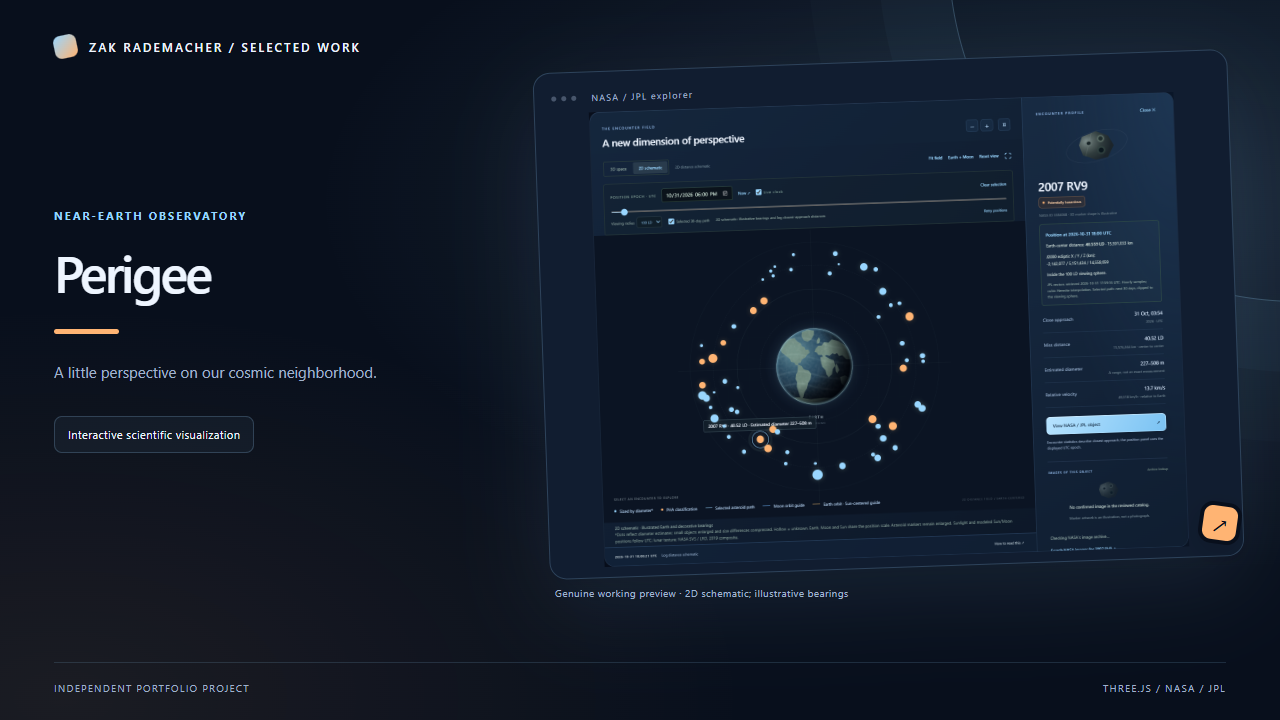
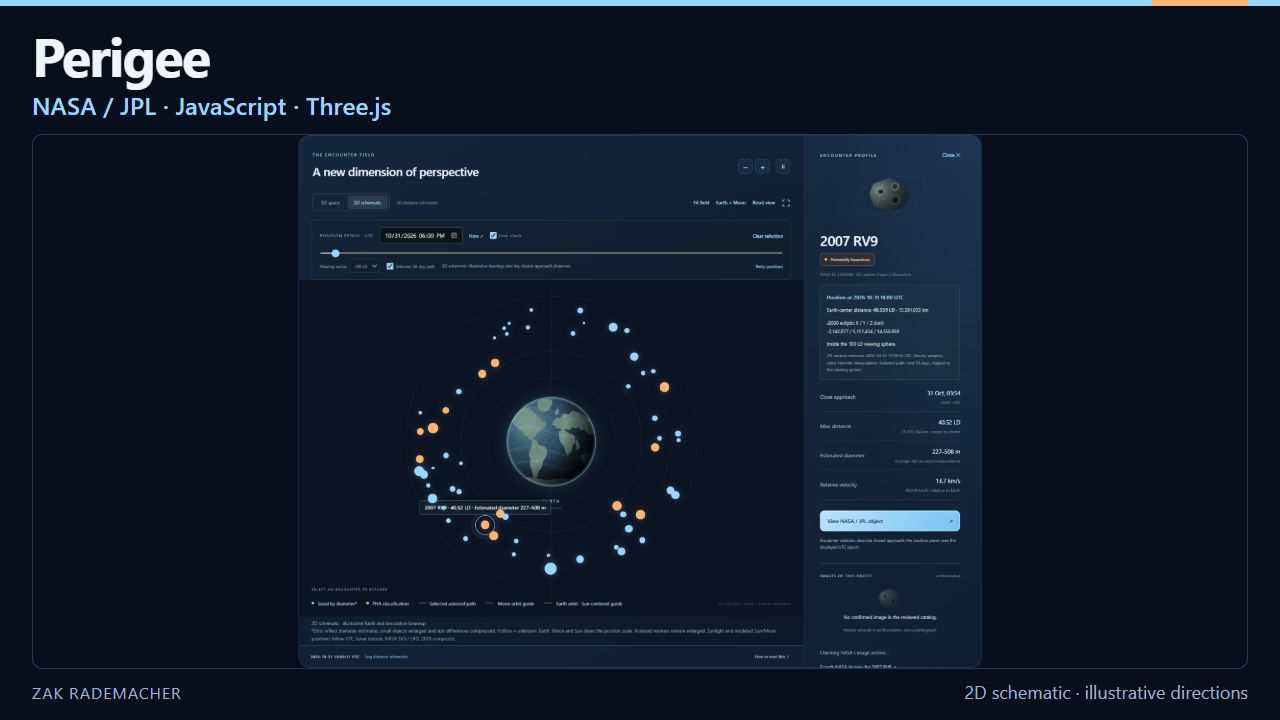
Use a clear, screenshot-led portfolio cover

diff --git a/presentation/cover-template.html b/presentation/cover-template.html
@@ -1,3 +1,3 @@
-<!doctype html><html lang="en"><meta charset="utf-8"><title>@@title@@ — portfolio cover</title><style>
-*{box-sizing:border-box}html,body{margin:0;width:100%;height:100%;overflow:hidden}body{font-family:'Segoe UI',Arial,sans-serif;background:@@canvas@@;color:@@ink@@}.stage{height:100%;padding:52px 54px;position:relative;isolation:isolate;background:radial-gradient(ellipse at 88% 28%,@@primary@@25,transparent 51%),radial-gradient(ellipse at 5% 97%,@@accent@@14,transparent 40%)}.stage:before{content:'';position:absolute;width:700px;height:700px;right:-370px;top:-400px;border:1px solid @@primary@@40;border-radius:50%;box-shadow:0 0 0 70px @@primary@@07,0 0 0 140px @@primary@@04;z-index:-1}.brand{font-size:12px;letter-spacing:2.1px;font-weight:600;display:flex;align-items:center;gap:12px}.brand i{display:block;width:23px;height:23px;background:linear-gradient(140deg,@@primary@@,@@accent@@);border-radius:7px;transform:rotate(-12deg)}main{height:calc(100% - 88px);display:grid;grid-template-columns:39% 61%;align-items:center;gap:20px}.copy{padding-right:25px;animation:copy-in .9s cubic-bezier(.16,.8,.2,1) both}.eyebrow{font-size:11px;color:@@primary@@;font-weight:700;letter-spacing:2px;margin-bottom:28px}h1{font-size:62px;line-height:1.04;font-weight:550;letter-spacing:-2.8px;margin:0 0 26px;max-width:450px}h1:after{content:'';display:block;height:5px;width:65px;border-radius:4px;background:@@accent@@;margin-top:30px}.description{font-size:17px;line-height:1.7;max-width:360px;color:@@muted@@}.format{display:inline-block;margin-top:30px;padding:10px 13px;border:1px solid @@primary@@35;background:@@primary@@0C;border-radius:8px;font-size:11px;letter-spacing:.4px}.frame-wrap{position:relative;perspective:1500px;padding:0 10px 0 0;animation:frame-in 1.1s .1s cubic-bezier(.16,.8,.2,1) both}.frame{padding:10px;border:1px solid @@primary@@35;border-radius:17px;background:@@surface@@;box-shadow:0 30px 85px @@primary@@19,0 4px 14px #00000012;transform:rotate(-2deg)}.chrome{height:30px;display:flex;align-items:center;gap:5px;padding-left:7px}.chrome i{height:5px;width:5px;background:@@muted@@60;border-radius:50%}.chrome span{font-size:9px;letter-spacing:1.2px;margin-left:10px;color:@@muted@@}img{width:100%;max-height:650px;display:block;object-fit:contain;object-position:top;border-radius:8px}.caption{font-size:10px;color:@@muted@@;letter-spacing:.4px;margin:25px 0 0 14px}.tag{position:absolute;right:5px;bottom:56px;width:42px;height:42px;background:@@accent@@;color:@@canvas@@;border:4px solid @@canvas@@;border-radius:13px;display:grid;place-items:center;font-size:23px;box-shadow:0 8px 24px #0002;transform:rotate(8deg)}footer{position:absolute;bottom:42px;left:54px;right:54px;display:flex;justify-content:space-between;border-top:1px solid @@primary@@25;padding-top:18px;font-size:10px;letter-spacing:1.2px;color:@@muted@@}@keyframes copy-in{from{opacity:0;transform:translateY(22px)}to{opacity:1;transform:none}}@keyframes frame-in{from{opacity:0;transform:translate(35px,38px) rotate(5deg) scale(.94)}to{opacity:1;transform:none}}@media(max-height:760px){.stage{padding-top:35px}main{grid-template-columns:39% 61%}h1{font-size:52px}.eyebrow{margin-bottom:22px}.description{font-size:15px}.format{margin-top:15px}img{max-height:455px}footer{bottom:25px}.frame-wrap{padding-left:10px}.caption{margin-top:18px}}@media(prefers-reduced-motion:reduce){*{animation:none!important;transition:none!important}}
-</style><div class="stage"><div class="brand"><i></i>ZAK RADEMACHER / SELECTED WORK</div><main><section class="copy"><div class="eyebrow">@@eyebrow@@</div><h1>@@title@@</h1><p class="description">@@description@@</p><span class="format">@@format@@</span></section><section class="frame-wrap"><div class="frame"><div class="chrome"><i></i><i></i><i></i><span>@@frame_label@@</span></div><img src="@@image_data@@" alt="Genuine rendered project preview"></div><div class="tag" aria-hidden="true">↗</div><p class="caption">Genuine working preview · @@preview_note@@</p></section></main><footer><span>INDEPENDENT PORTFOLIO PROJECT</span><span>@@footer@@</span></footer></div></html>
+<!doctype html><html lang="en"><meta charset="utf-8"><meta name="author" content="Zak Rademacher"><title>@@title@@ — portfolio cover</title><style>
+*{box-sizing:border-box}html,body{margin:0;width:100%;height:100%;overflow:hidden}body{font-family:'Segoe UI',Arial,sans-serif;background:@@canvas@@;color:@@ink@@}.stage{height:100%;padding:30px 32px 22px;display:flex;flex-direction:column;gap:18px;border-top:6px solid @@primary@@;position:relative}.stage:before{content:'';position:absolute;top:-6px;right:32px;width:96px;height:6px;background:@@accent@@}header{flex:none;min-height:115px;display:flex;flex-direction:column;justify-content:center;gap:10px}h1{font-size:64px;line-height:1.08;letter-spacing:-1.8px;font-weight:650;margin:0;white-space:nowrap}.tools{font-size:27px;line-height:1.3;letter-spacing:.2px;color:@@primary@@;font-weight:550;margin:0}.preview{flex:1;min-height:0;display:flex;align-items:center;justify-content:center;overflow:hidden;border:1px solid @@primary@@33;border-radius:10px;background:@@canvas@@}.preview img{display:block;width:100%;height:100%;object-fit:contain;object-position:center}.preview.crop-top img{object-fit:cover;object-position:center top}footer{flex:none;display:flex;align-items:center;justify-content:space-between;gap:20px;height:29px;font-size:20px;line-height:1.3;color:@@muted@@}.name{font-size:18px;letter-spacing:1px;white-space:nowrap}.note{text-align:right}@media(max-height:760px){.stage{padding-top:20px;padding-bottom:15px;gap:12px}header{min-height:92px;gap:6px}h1{font-size:54px}.tools{font-size:24px}footer{font-size:18px;height:24px}.name{font-size:16px}}
+</style><div class="stage"><header><h1>@@title@@</h1><p class="tools">@@format@@</p></header><main class="preview @@preview_mode@@"><img src="@@image_data@@" alt="@@frame_label@@"></main><footer><span class="name">ZAK RADEMACHER</span><span class="note">@@preview_note@@</span></footer></div></html>

diff --git a/docs/VISUAL_DESIGN.md b/docs/VISUAL_DESIGN.md
@@ -13,3 +13,9 @@ python tools/check_visual_refresh.py --url <local URL> --evidence <new evidence 
 The browser check needs development Playwright and Edge support. Use new evidence folders to keep the earlier measurements intact. Run `node tools/build-worker.mjs` and restart the local preview after editing. The Worker embeds frontend files at build time; publication uses the existing Cloudflare configuration.
 
 For practice, change one accent in a copy and rebuild. Check that the controls, downloads, counts, mobile layout, and explicit warning labels still work before accepting the change.
+
+## Portfolio thumbnails
+
+The shared cover uses a large title, a short tool line and a straight-on project screenshot. `presentation/cover.json` selects the existing source image and its scope label; `presentation/cover-template.html` controls the layout. `portfolio-cover.png` is the 1280 × 960 cover used on the GitHub profile and Upwork. `portfolio-cover-wide.png` is the 1280 × 720 variant. The repository README keeps its larger original report or app preview.
+
+Run the existing `python presentation/build_cover.py --workdir <scratch folder>` to regenerate static covers after a source or title change. The template has no decorative entrance animation. Keep Perigee’s schematic label and the analytical source qualifications when changing a cover.
